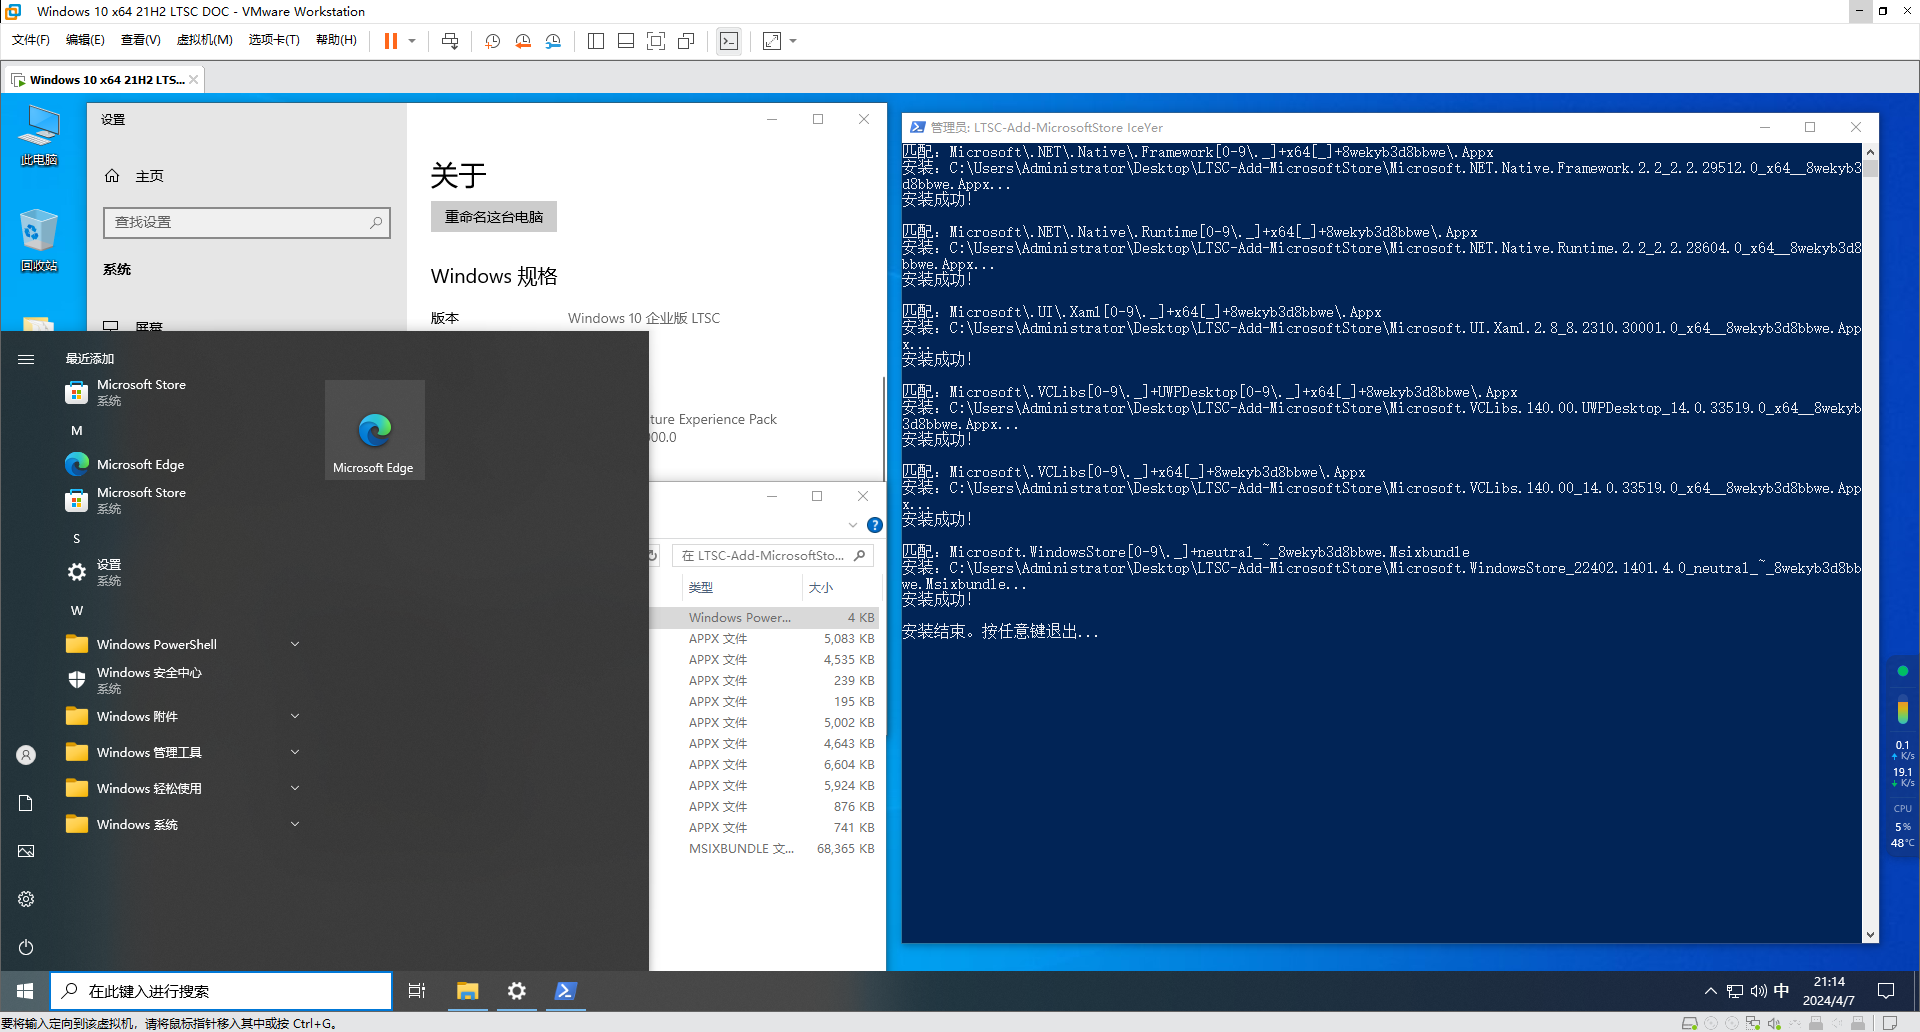
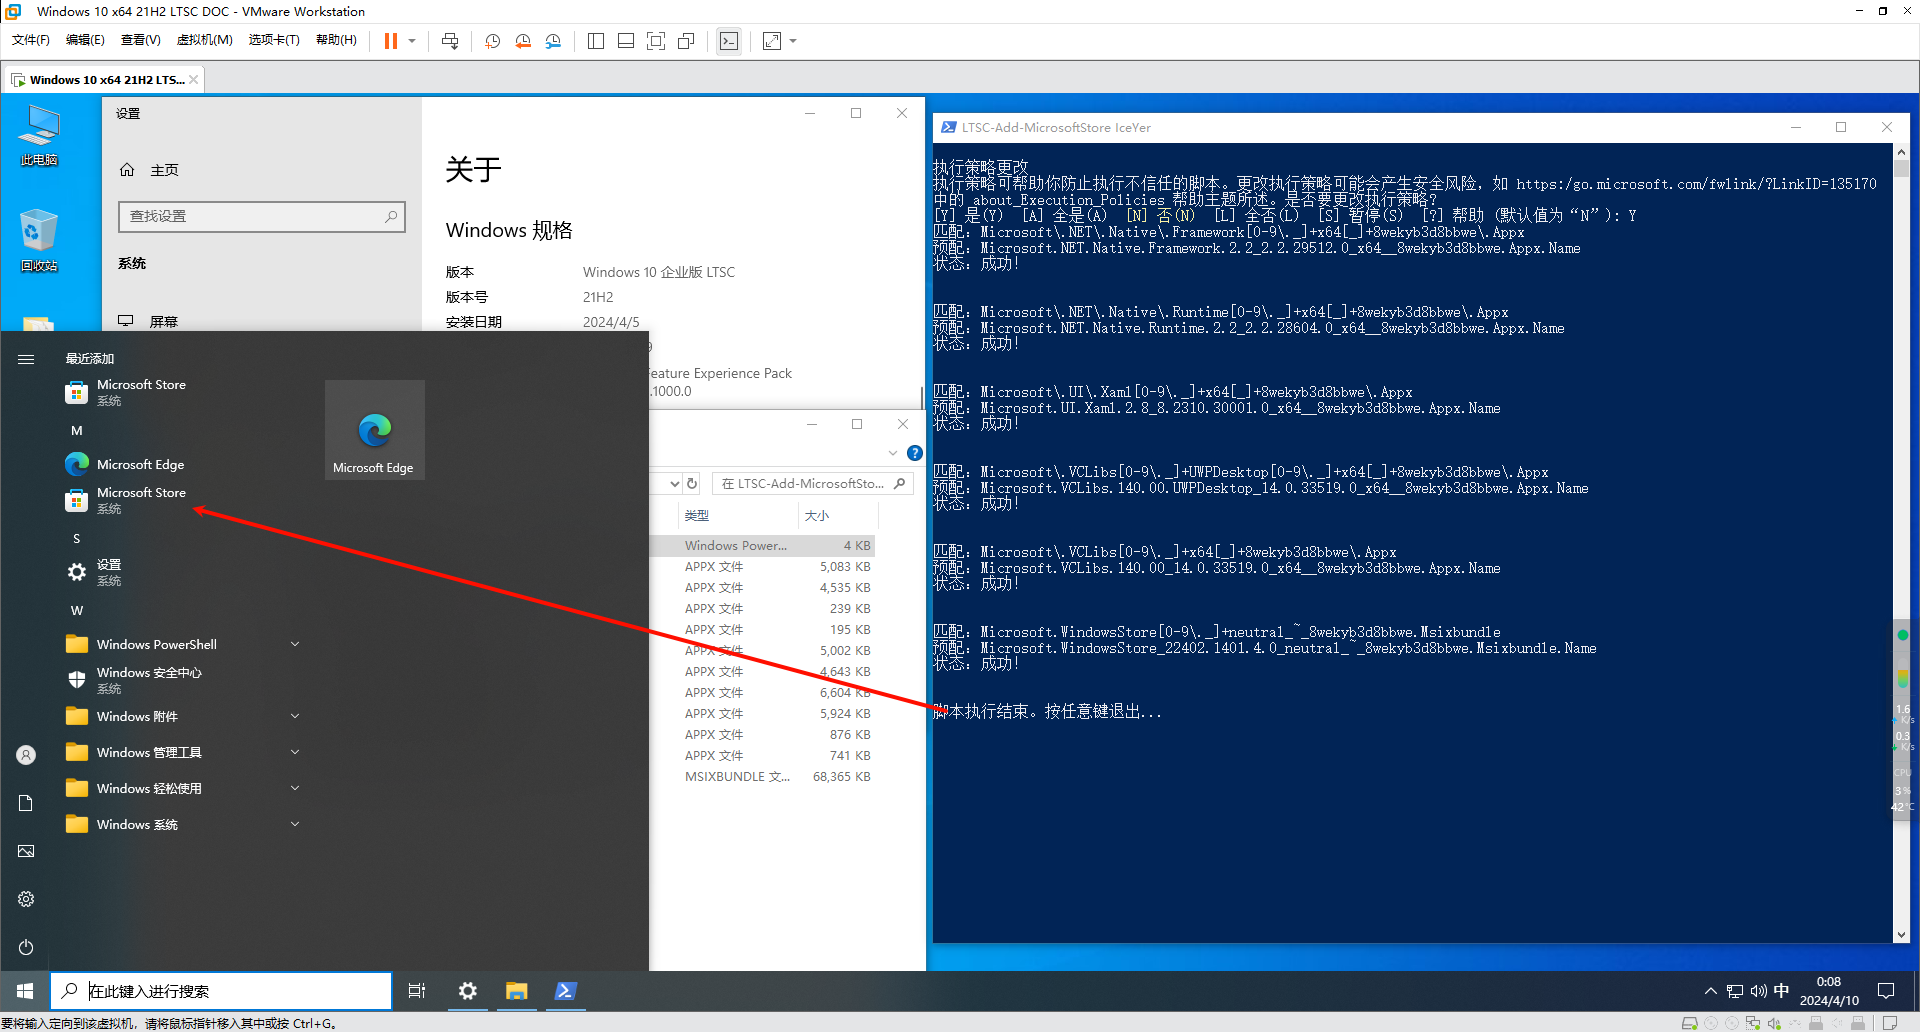
GitHub Desktop

diff --git a/README.md b/README.md
@@ -9,11 +9,11 @@
 ## 如何使用？
 PowerShell脚本已经自动识别x86及x64版本，并按照顺序安装，有任何问题可以提问。
 
-1.确保PowerShell脚本(.ps1文件)与离线包在同一文件夹内然后鼠标右键，选择用 PowerShell 运行，稍等片刻直到提示安装结束；
+1.确保PowerShell脚本(.ps1文件)与离线包在同一文件夹内然后鼠标右键 `使用 PowerShell 运行` 稍等片刻直到提示安装结束(第一次运行PowerShell若提示执行策略更改输入Y即可)；
 
 ![PowerShell脚本](Image/PowerShell脚本.png)
 
-2.安装顺利的话，你可以在开始菜单找到Microsoft Store应用程序。
+2.安装顺利的话，你可以在开始菜单找到 `Microsoft Store` 应用程序。
 
 ![Microsoft Store](Image/MicrosoftStore.png)
 
